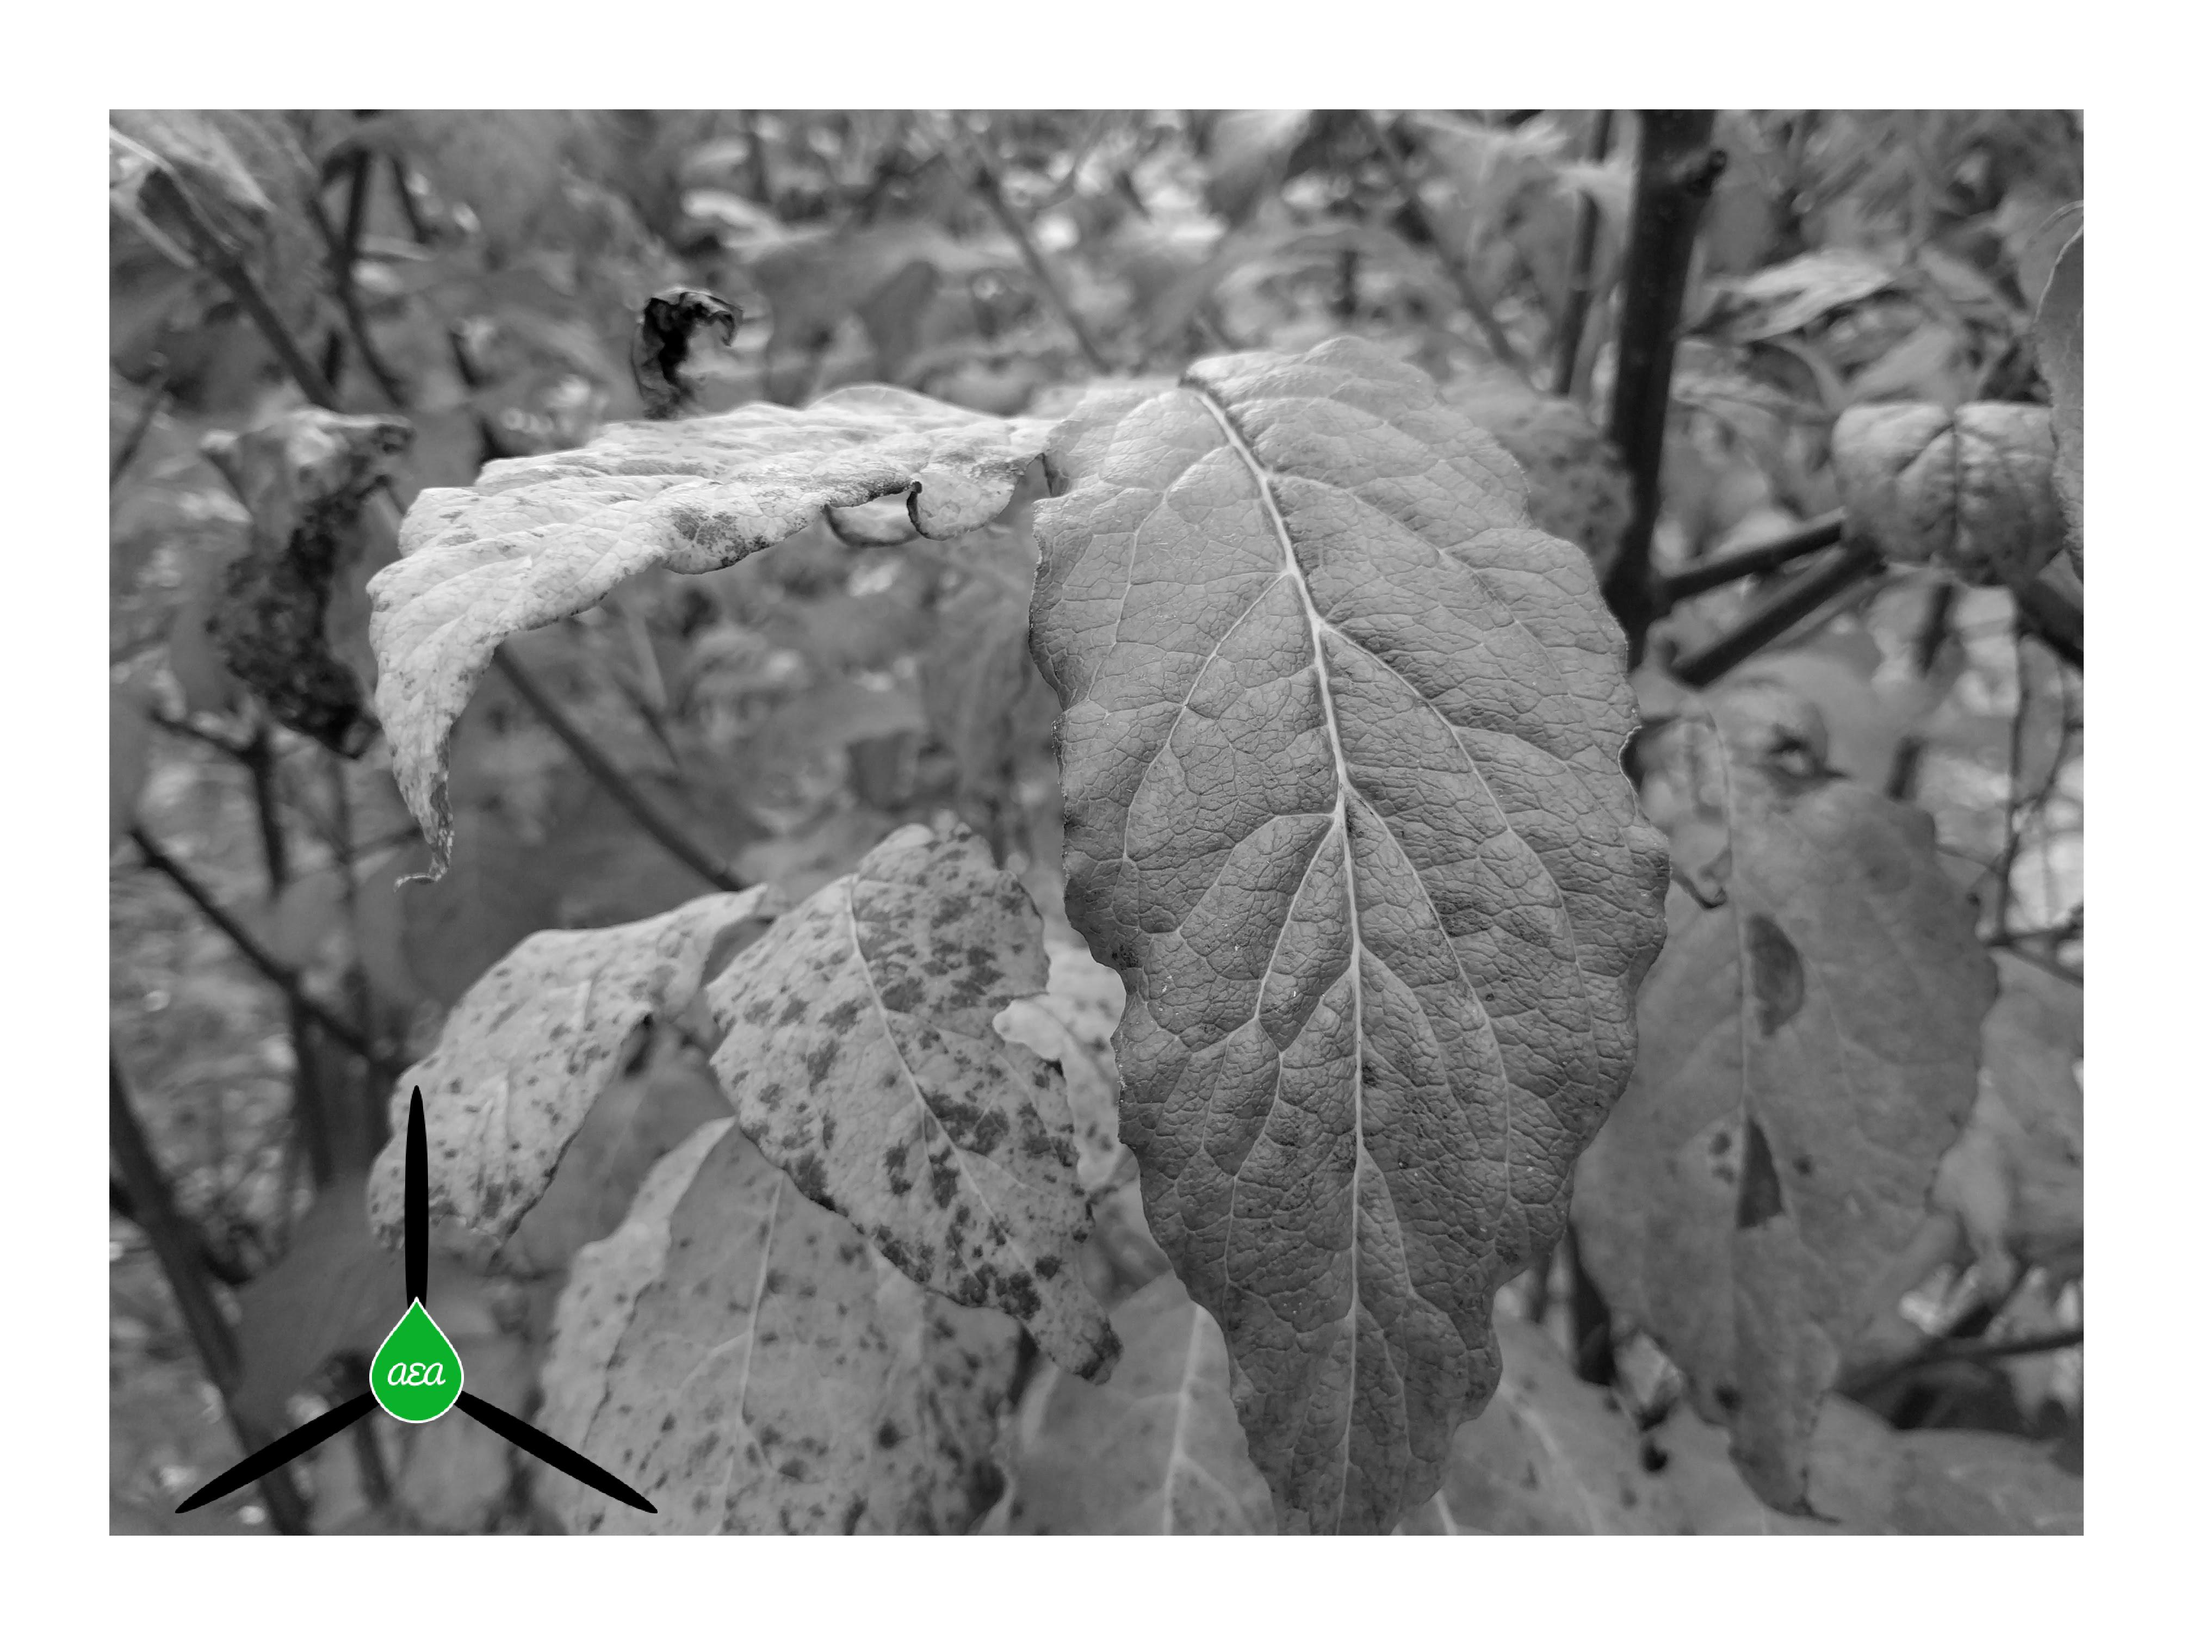
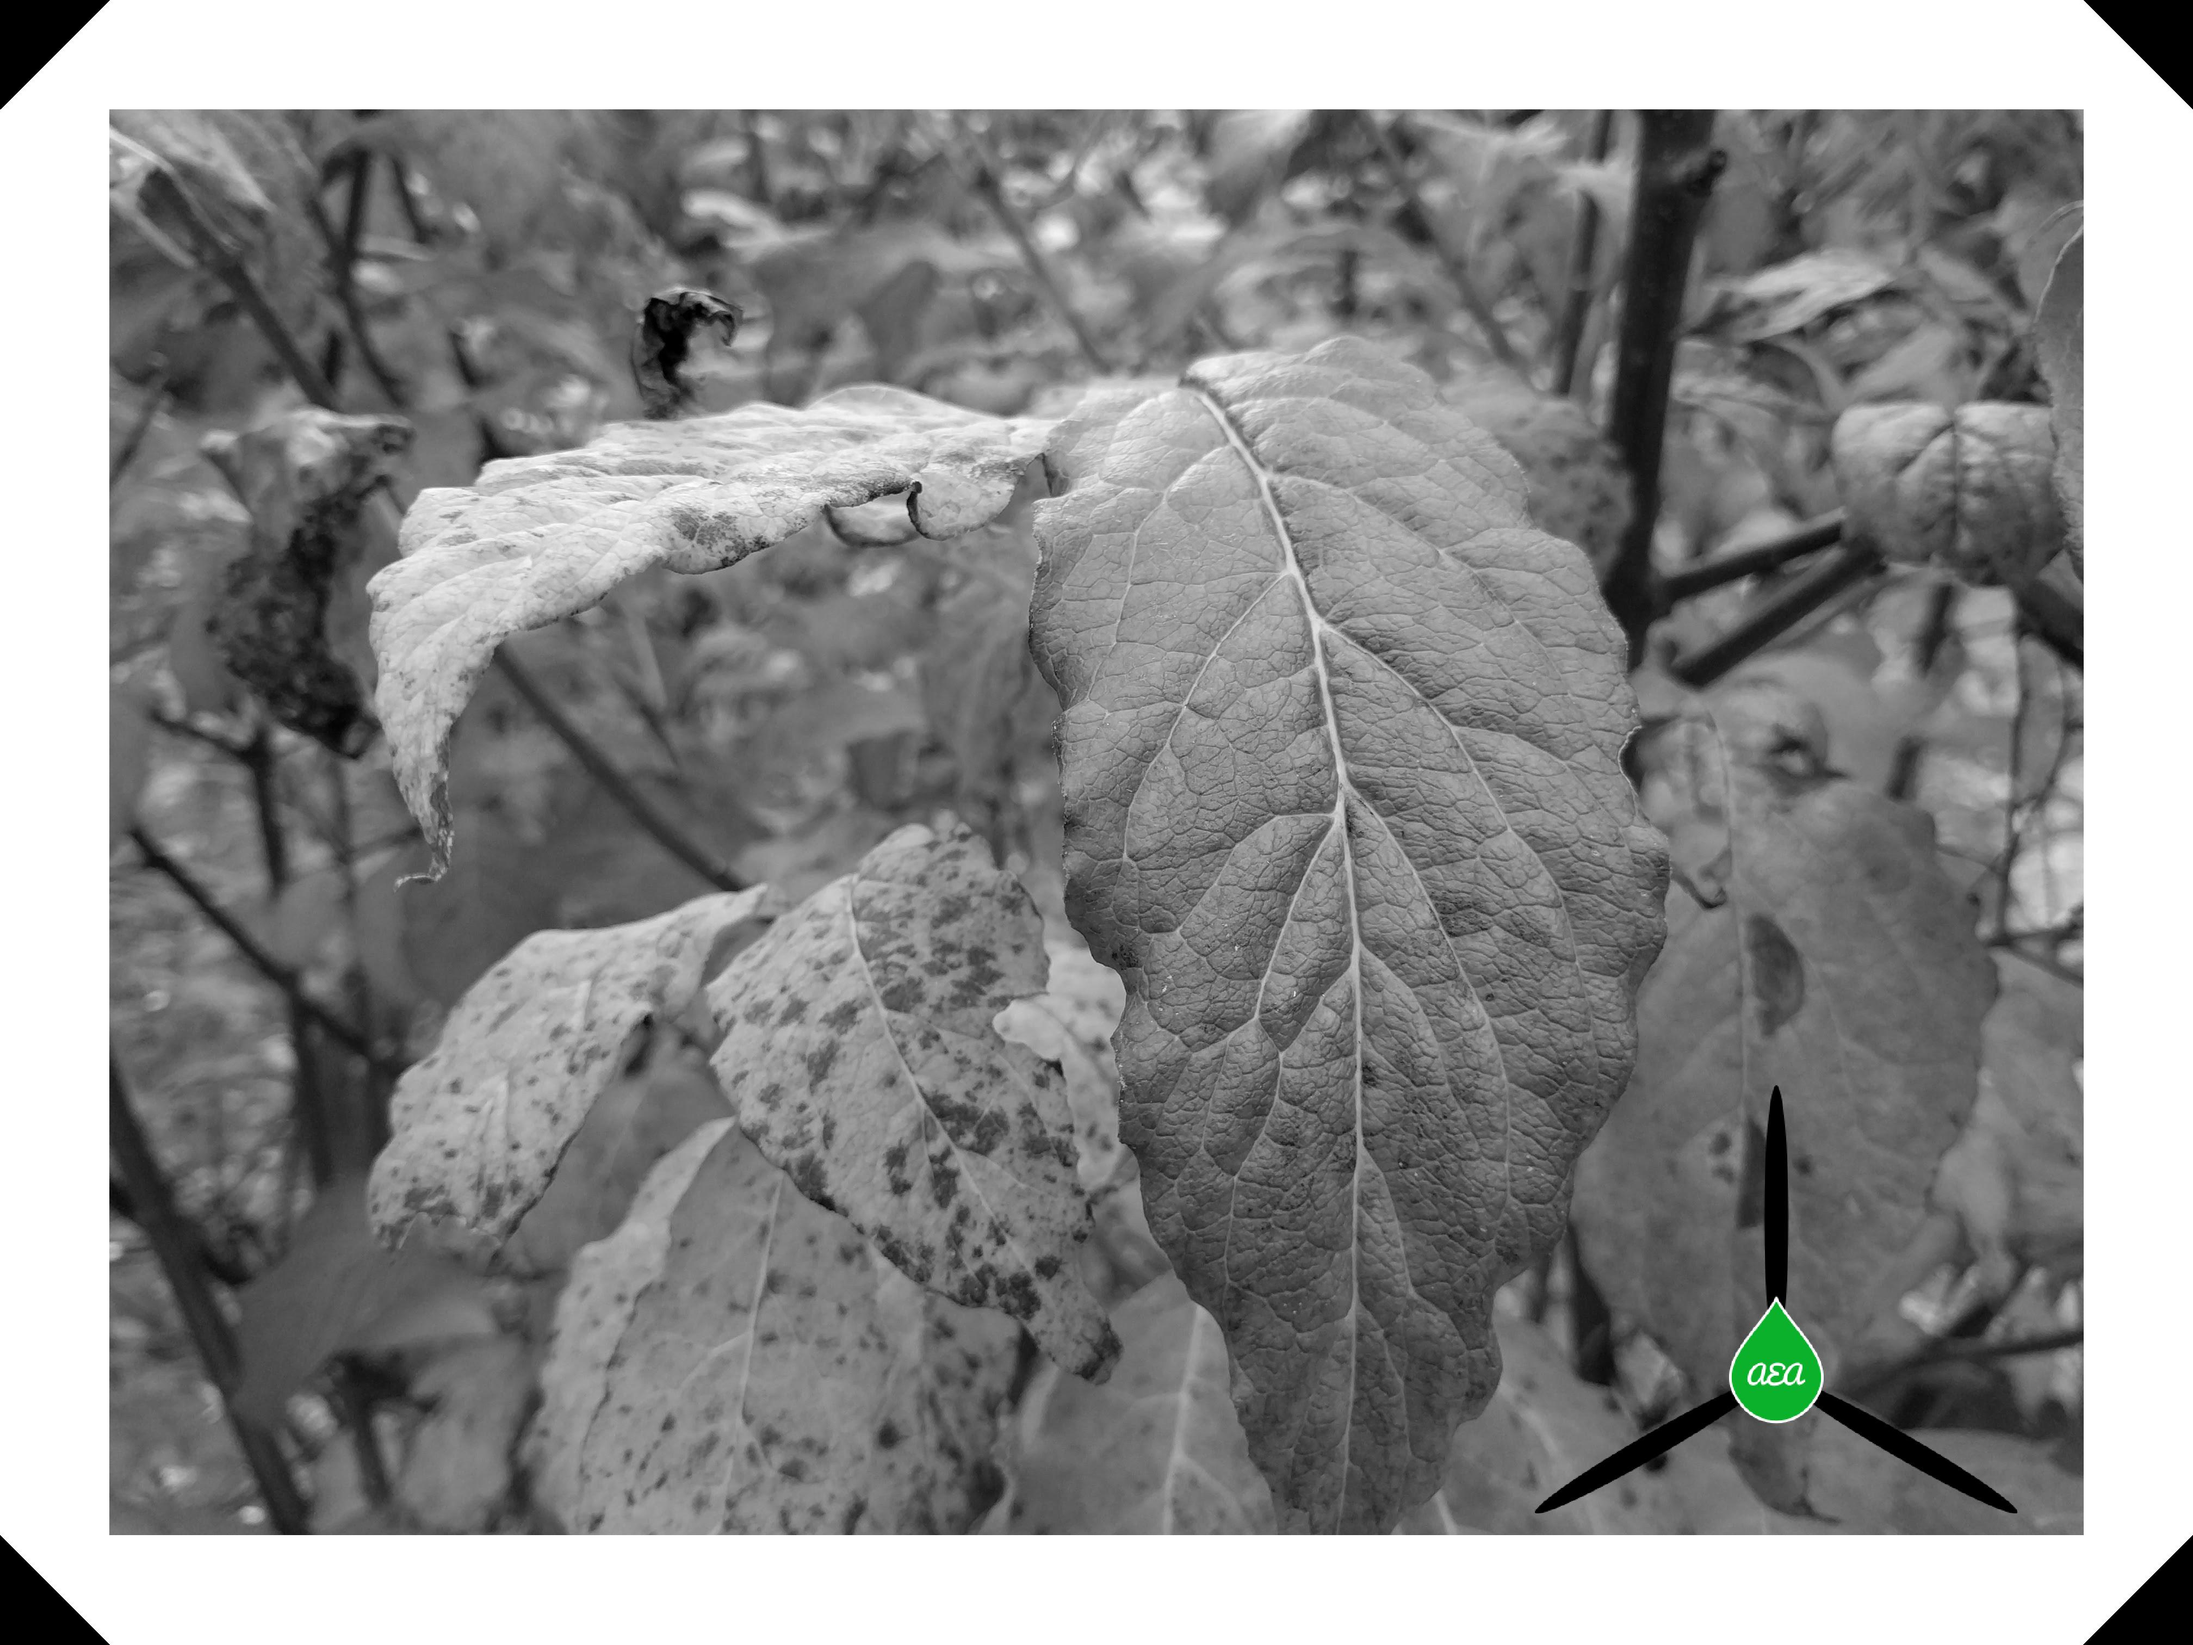
Add triangles to corners for cool geometric effect

diff --git a/image_artist.py b/image_artist.py
@@ -4,10 +4,31 @@ import PIL.ImageDraw
 import matplotlib.pyplot as plt
     
 def convert_to_grayscale(image):
-    return image.convert('LA')
+    """ Converts a PIL.Image to grayscale
+
+    image: A PIL.Image
+
+    Returns a PIL.Image in grayscale.
+    """
+    image = image.convert('LA')
+    return image.convert("RGBA")
     
 def add_logo(image, logo, corner):
+    """ Adds a logo to a PIL.Image
+
+    image: A PIL.Image which will receive a logo
+    logo: A PIL.Image which will be used as a logo
+    corner: The number corresponding to the corner that the logo will be placed
+            Bottom left: 0
+            Bottom right: 1
+            Top left: 2
+            Top right: 3
+
+    Returns a PIL.Image with the logo applied to the correct corner.
+    """
     (width, height) = logo.size
+
+    # Resize the logo
     logo_max = max([height, width])
     logo_aspect_ratio = height / float(width)
     if logo_max == height:
@@ -18,6 +39,8 @@ def add_logo(image, logo, corner):
         width = int(0.22 * image.size[0])
         height = int(width *  logo_aspect_ratio)
         logo = logo.resize((width, height))
+        
+    # Calculate logo padding / positioning based on corner
     btm_left = 0
     btm_right = 1
     top_left = 2
@@ -33,19 +56,36 @@ def add_logo(image, logo, corner):
     image.paste(logo, padding, mask=logo)
     return image
     
-def add_triangle_corners(original_image, color, wide):
+def add_triangle_corners(original_image, wide, color):
+    """ Adds triangles to the corners of a PIL.Image. Should be used after a border is applied
+
+    original_image: A PIL.Image which will receive the triangle corners
+    wide: The width and height of the triangle
+    color: The color of the triangle
+
+    Returns a PIL.Image with triangles in the corners
+    """
     draw = PIL.ImageDraw.Draw(original_image)
-    draw.polygon([(0, 0), (0, wide), (wide, 0)], fill=(0, 0, 0))
+    draw.polygon([(0, 0), (0, wide), (wide, 0)], fill=color) # top left
+    draw.polygon([(original_image.size[0], 0),
+                  (original_image.size[0], wide),
+                  (original_image.size[0] - wide, 0)], fill=color) # top right
+    draw.polygon([(0, original_image.size[1]),
+                  (0, original_image.size[1] - wide),
+                  (wide, original_image.size[1])], fill=color) # bottom left
+    draw.polygon([(original_image.size[0], original_image.size[1]),
+                  (original_image.size[0], original_image.size[1] - wide),
+                  (original_image.size[0] - wide, original_image.size[1])], fill=color) # bottom right
     return original_image    
     
 def frame_image(original_image, color, wide):
     """ Frames a PIL.Image
     
-    original_image must be a PIL.Image
+    original_image: A PIL.Image which will receive a frame
     color: The color of the border as a 3-tuple of RGB color (R, G, B)
     wide: The width in pixels of the border.
     
-    Returns a new PIL.Image with borders.
+    Returns a PIL.Image with borders.
     """
     width, height = original_image.size
     border_mask = PIL.Image.new('RGBA', (width, height), (127,0,127,0))
@@ -67,7 +107,6 @@ def manipulate_image(current_image, current_filename, corner, gray):
     logo = PIL.Image.open(os.path.join(os.getcwd(), 'logo.png'))
     if gray:
         current_image = convert_to_grayscale(current_image)
-    current_image = current_image.convert("RGBA")
     current_image = add_logo(current_image, logo, corner)
     current_image = add_border(current_image, 0.05 * current_image.size[0], (255, 255, 255))
     current_image = add_triangle_corners(current_image, 0.05 * current_image.size[0], (0, 0, 0))
@@ -85,7 +124,7 @@ def get_images(directory=None):
     
     if directory == None:
         directory = os.path.join(os.getcwd(), "Images") # Use working directory if unspecified
-    image_list = [] # Initialize aggregaotrs
+    image_list = []
     file_list = []
     new_directory = os.path.join(os.getcwd(), 'modified')
     try:
@@ -104,6 +143,8 @@ def get_images(directory=None):
     return image_list, file_list
 
 def main():
+    """ The main function of the program. It is used to get the client's preferences and manipulate each image in the images directory.
+    """
     images = get_images()
     corner = int(raw_input("Location of the logo: bottom left (0), bottom right (1), top left (2), top right (3)\n"))
     gray = bool(int(raw_input("Make image grayscale? (1 = yes, 0 = no)\n")))
